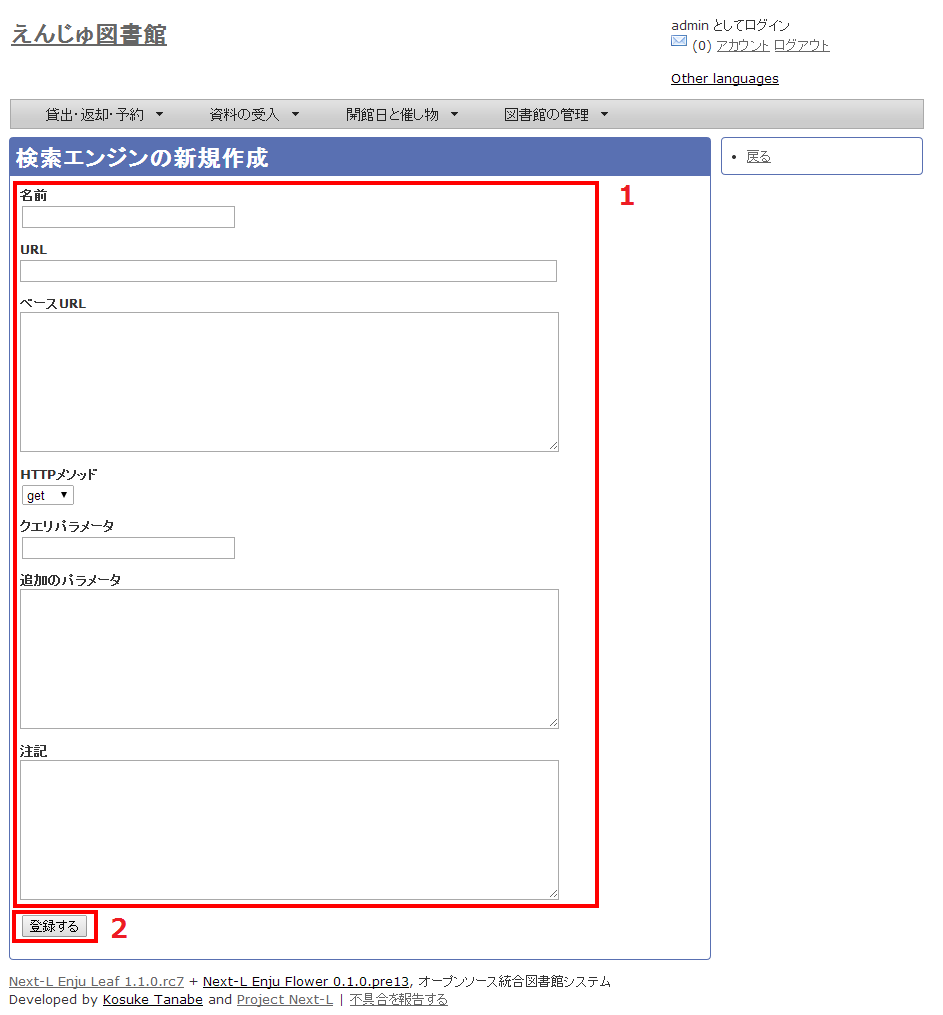
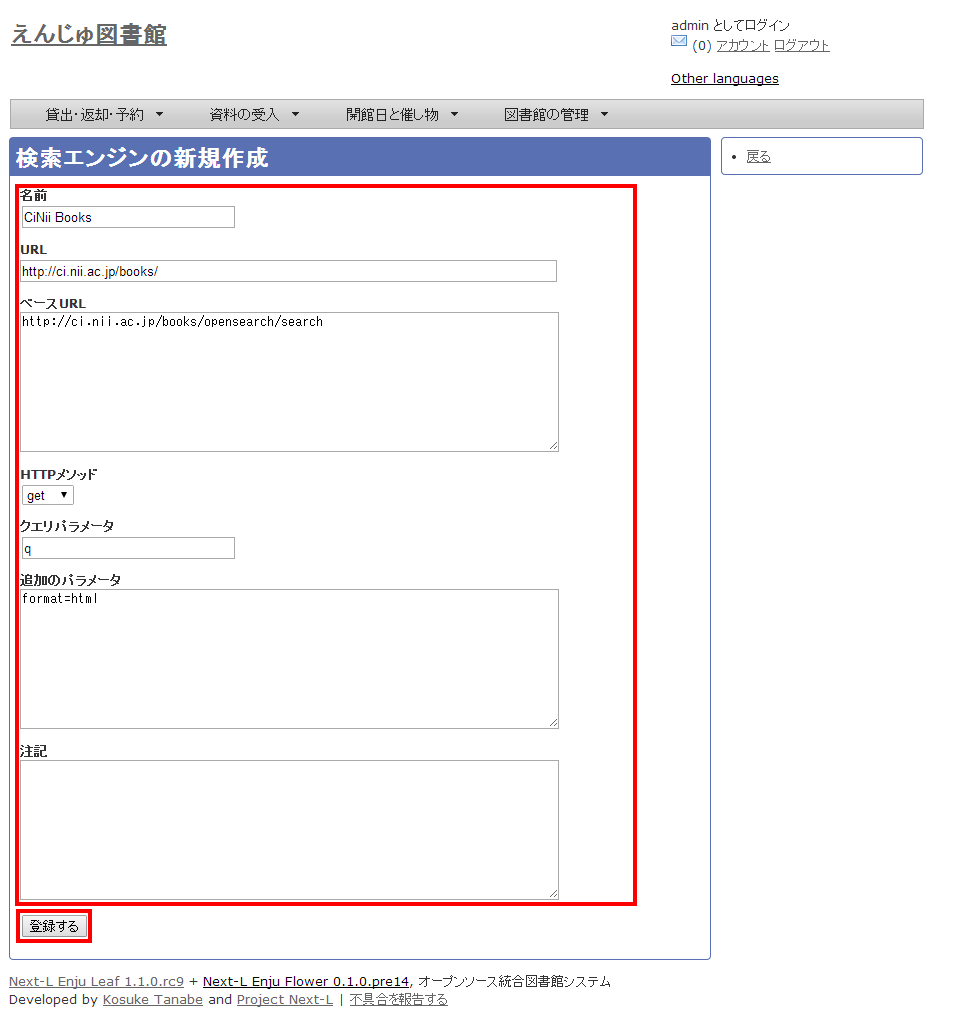
初期設定マニュアルの3-12検索エンジンを設定するをもう少し詳しく説明を追加 （CiNii Books）を例に。

diff --git a/_includes/enju_setup/search_engine.md b/_includes/enju_setup/search_engine.md
@@ -28,3 +28,6 @@
    ［登録する］ボタンをクリックして，設定内容を登録します。
    ![検索エンジンの設定](assets/images/image_search_engine_input.png)
 
+	<div class="alert alert-info">
+【Memo】CiNii Booksの登録例（検索語がflowerであれば：http://ci.nii.ac.jp/books/search?q=flower&format=html というリクエストになる）を示しています。
+	</div>
